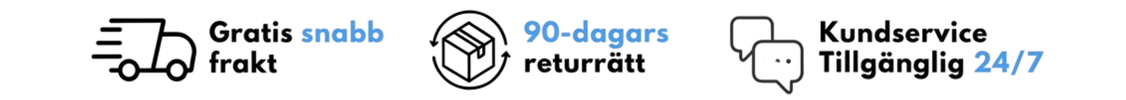
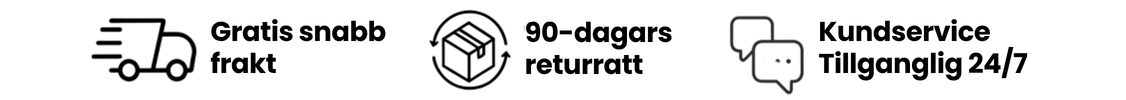
Polish landing page copy and mobile CTA

diff --git a/index.html b/index.html
@@ -85,7 +85,7 @@
     .top-blue-line {
       width: 100%;
       min-height: 34px;
-      background: var(--color-primary);
+      background: #090908;
       color: #FFFFFF;
       display: flex;
       align-items: center;
@@ -501,7 +501,7 @@
       padding: 0;
       display: grid;
       gap: 12px;
-      margin-bottom: 30px;
+      margin-bottom: 18px;
     }
 
     .benefit-list li {
@@ -550,6 +550,47 @@
       line-height: 16px;
       font-weight: 800;
       text-transform: none;
+    }
+
+    .hero-guarantee-card {
+      width: 100%;
+      margin: 0 0 18px;
+      padding: 16px 18px;
+      border: 1.5px solid #090908;
+      border-radius: 18px;
+      background: #FFFFFF;
+      display: grid;
+      grid-template-columns: 56px minmax(0, 1fr);
+      gap: 14px;
+      align-items: center;
+      color: #090908;
+    }
+
+    .hero-guarantee-badge {
+      width: 56px;
+      height: 56px;
+      object-fit: contain;
+      display: block;
+    }
+
+    .hero-guarantee-copy {
+      display: grid;
+      gap: 4px;
+      min-width: 0;
+    }
+
+    .hero-guarantee-title {
+      font-size: 15px;
+      line-height: 20px;
+      font-weight: 800;
+      letter-spacing: 0;
+    }
+
+    .hero-guarantee-text {
+      font-size: 15px;
+      line-height: 23px;
+      font-weight: 400;
+      color: #090908;
     }
 
     .hero-testimonial {
@@ -1495,6 +1536,24 @@
       text-align: center;
     }
 
+    .reviews-heading {
+      display: grid;
+      gap: 4px;
+      margin-left: auto;
+      margin-right: auto;
+    }
+
+    .reviews-heading span {
+      display: block;
+    }
+
+    .reviews-heading-count {
+      display: block;
+      font-size: 17px;
+      line-height: 24px;
+      font-weight: 800;
+    }
+
     .trustpilot-block {
       display: grid;
       justify-items: center;
@@ -2176,6 +2235,9 @@
         padding-left: 10px;
         padding-right: 10px;
       }
+      .legal-footer {
+        padding-bottom: calc(128px + env(safe-area-inset-bottom));
+      }
       .top-blue-line {
         min-height: 44px;
         flex-wrap: wrap;
@@ -2226,7 +2288,8 @@
       .proof-copy p,
       .guarantee-text,
       .offer-subcopy {
-        max-width: 330px;
+        width: 100%;
+        max-width: 100%;
         margin-left: auto;
         margin-right: auto;
       }
@@ -2260,6 +2323,25 @@
       .hero-content .benefit-list {
         width: 100%;
         max-width: 100%;
+      }
+      .hero-guarantee-card {
+        grid-template-columns: 50px minmax(0, 1fr);
+        gap: 12px;
+        padding: 14px;
+        border-radius: 16px;
+        margin-bottom: 16px;
+      }
+      .hero-guarantee-badge {
+        width: 50px;
+        height: 50px;
+      }
+      .hero-guarantee-title {
+        font-size: 14px;
+        line-height: 19px;
+      }
+      .hero-guarantee-text {
+        font-size: 14px;
+        line-height: 21px;
       }
       .rating {
         flex-wrap: wrap;
@@ -2310,7 +2392,8 @@
         gap: 10px;
       }
       .proof-row p {
-        max-width: 330px;
+        width: 100%;
+        max-width: 100%;
         margin: 0 auto;
       }
       .hero .btn-primary {
@@ -2365,14 +2448,31 @@
       .offer-img {
         max-width: 300px;
       }
+      .sticky-cta {
+        background: #090908;
+        box-shadow: rgba(0, 0, 0, 0.28) 0 -4px 16px;
+      }
+      .sticky-cta .sticky-inner {
+        width: 100%;
+        max-width: 430px;
+        padding: 8px 14px 10px;
+      }
       .sticky-cta .btn-primary {
+        background: transparent;
         min-height: 72px;
-        padding: 8px 0 0;
+        padding: 0;
+        border-radius: 0;
         font-size: 20px;
         line-height: 24px;
         overflow: hidden;
         align-items: stretch;
         justify-content: space-between;
+        gap: 6px;
+        box-shadow: none;
+      }
+      .sticky-cta .btn-primary:hover {
+        background: transparent;
+        box-shadow: none;
       }
       .sticky-cta-main {
         display: flex;
@@ -2380,25 +2480,36 @@
         justify-content: center;
         width: 100%;
         flex: 1 1 auto;
+        min-height: 58px;
+        background: var(--color-primary);
+        border-radius: 8px;
+        color: #FFFFFF;
+        box-shadow: rgba(77, 162, 241, 0.28) 0 4px 10px;
+        font-weight: 800;
         text-align: center;
         transform: none;
-        padding-top: 2px;
-        padding-bottom: 2px;
-        margin-bottom: 2px;
+        padding: 8px 12px;
       }
       .sticky-cta-sub {
         width: 100%;
         display: flex;
-        gap: 2px;
+        gap: 4px;
         align-items: center;
         justify-content: center;
-        background: #000000;
+        background: transparent;
+        color: #FFFFFF;
         border-radius: 0;
-        padding: 3px 8px 4px;
+        padding: 0 8px;
         margin-top: auto;
-        font-size: 14px;
-        line-height: 18px;
+        font-size: 12px;
+        line-height: 16px;
+        font-weight: 800;
         text-align: center;
+      }
+      .sticky-cta .sticky-stock-label,
+      .sticky-cta .sticky-ship-copy,
+      .sticky-cta .sticky-timer {
+        color: #FFFFFF;
       }
       .sticky-cta-main { white-space: nowrap; }
     }
@@ -2406,6 +2517,10 @@
     @media (min-width: 744px) {
       .only-mobile { display: none; }
       .only-tablet-up { display: block; }
+      .sticky-cta .btn-primary,
+      .sticky-cta .btn-primary:hover {
+        background: #090908;
+      }
       .lp-section {
         padding: 40px 16px;
       }
@@ -2789,13 +2904,14 @@
       .intro-section .copy-stack {
         width: 100% !important;
         max-width: 100% !important;
+        margin: 0 auto 24px !important;
         justify-items: center !important;
         text-align: center !important;
       }
 
       .intro-section .copy-stack p {
         width: 100% !important;
-        max-width: 330px !important;
+        max-width: 100% !important;
         margin-left: auto !important;
         margin-right: auto !important;
         text-align: center !important;
@@ -2844,6 +2960,15 @@
         margin-bottom: 10px !important;
       }
 
+      .reviews-heading {
+        gap: 3px !important;
+      }
+
+      .reviews-heading-count {
+        font-size: 15px !important;
+        line-height: 20px !important;
+      }
+
       .trustpilot-logo {
         width: 152px !important;
         max-width: 46vw !important;
@@ -2863,16 +2988,15 @@
 
       .routine-copy {
         width: 100% !important;
-        max-width: 360px !important;
-        margin-left: auto !important;
-        margin-right: auto !important;
+        max-width: 100% !important;
+        margin: 0 auto 24px !important;
         gap: 16px !important;
         text-align: center !important;
       }
 
       .routine-copy p {
         width: 100% !important;
-        max-width: 360px !important;
+        max-width: 100% !important;
         margin-left: auto !important;
         margin-right: auto !important;
         font-size: 16px !important;
@@ -2936,11 +3060,12 @@
 
       .ingredients-section .copy-stack {
         gap: 16px;
-        margin-top: 0;
+        margin: 0 auto 24px !important;
       }
 
       .ingredients-section .copy-block p {
-        max-width: 360px !important;
+        width: 100% !important;
+        max-width: 100% !important;
         font-size: 16px;
         line-height: 24px;
       }
@@ -3024,6 +3149,13 @@
             <li><span class="check">✓</span><span>Ideaal voor gezicht, hals en dagelijkse verzorging</span></li>
             <li><span class="check">✓</span><span>Met copper peptides en hyaluronic acid</span></li>
           </ul>
+          <div class="hero-guarantee-card">
+            <img class="hero-guarantee-badge" src="bedz.png" alt="90 dagen geld-terug-garantie">
+            <div class="hero-guarantee-copy">
+              <div class="hero-guarantee-title">Voel het verschil – of krijg je geld terug!</div>
+              <div class="hero-guarantee-text">Probeer het 90 dagen volledig risicovrij. Als je geen echt verschil ziet, krijg je 100% van je geld terug.</div>
+            </div>
+          </div>
           <a class="btn-primary" href="https://aleks9990.github.io/PeptiGlow-Checkout/">Bestel Nu→ <small>50% korting eindigt vanavond om 23:59 uur</small></a>
           <div class="hero-testimonial">
             <img class="comment-img" src="comment.png" alt="Lisa M. review">
@@ -3052,14 +3184,14 @@
     <section class="lp-section lp-section--blue intro-section">
       <div class="lp-inner split-block">
         <div class="copy-block">
-          <h2>Waarom je huid dof blijft, zelfs met dagelijkse creme</h2>
+          <h2>Waarom je huid dof blijft, zelfs met dagelijkse crème</h2>
           <div class="mobile-inline-image">
             <img class="section-img" src="photo2.png" alt="Hoe PeptiGlow werkt">
           </div>
           <div class="copy-stack">
-            <p>Een gewone creme kan prettig aanvoelen, maar geeft je huid niet altijd de serumstap die ze nodig heeft om frisser en gladder te ogen.</p>
-            <p>PeptiGlow™ gebruikt een lichte GHK-Cu serumtextuur met hyaluronic acid en glycerin. De formule helpt vocht aan de huid te binden, ondersteunt een verzorgde uitstraling en laat je huid voller gehydrateerd aanvoelen.</p>
-            <p>Geen zware laag, geen plakkerig gevoel. Alleen een dagelijkse boost die makkelijk onder moisturizer, SPF of make-up past.</p>
+            <p>Je crème voelt fijn — maar het is <strong>geen serum</strong>. Ze mist de <strong>actieve stap</strong> die je huid frisser en gladder laat ogen.</p>
+            <p><strong>PeptiGlow™ is die stap</strong>. GHK-Cu, hyaluronic acid en glycerin in een lichte formule die <strong>vocht bindt</strong> en je huid <strong>voller gehydrateerd</strong> laat aanvoelen.</p>
+            <p>Geen zware laag, geen plakkerig gevoel. <strong>Eén stap</strong> die moeiteloos onder moisturizer, SPF of make-up past.</p>
           </div>
           <a class="btn-primary" href="https://aleks9990.github.io/PeptiGlow-Checkout/">Bestel Nu →</a>
           <div class="cta-note">Nog maar 6 op voorraad!</div>
@@ -3081,8 +3213,8 @@
             <img class="section-img" src="3step.png" alt="PeptiGlow routine">
           </div>
           <div class="routine-copy">
-            <p>Reinig je gezicht en breng PeptiGlow™ aan op een schone, droge huid. Verdeel 2-3 druppels gelijkmatig over je gezicht en hals en masseer het serum zachtjes in met je vingertoppen.</p>
-            <p>De lichte formule trekt binnen seconden in zonder plakkerig gevoel. Sluit af met je moisturizer en gebruik overdag altijd SPF. 's Ochtends of 's avonds — het past in elke routine.</p>
+            <p>Verdeel <strong>2-3 druppels</strong> PeptiGlow™ over een schoon, droog gezicht en hals. Masseer het serum zachtjes in met je vingertoppen — <strong>klaar in enkele seconden</strong>.</p>
+            <p>De lichte formule voelt <strong>direct comfortabel</strong>, zonder plakkerig of zwaar gevoel. Werk af met je moisturizer en gebruik overdag altijd SPF. <strong>'s Ochtends of 's avonds</strong> — het past <strong>moeiteloos</strong> in je routine.</p>
           </div>
           <a class="btn-primary" href="https://aleks9990.github.io/PeptiGlow-Checkout/">Bestel Nu →</a>
           <div class="cta-note">Nog maar 6 op voorraad!</div>
@@ -3098,10 +3230,9 @@
             <img class="section-img" src="ingre.png" alt="PeptiGlow ingredienten">
           </div>
           <div class="copy-stack">
-            <p>Een korte, transparante formule gebouwd rond Copper Tripeptide-1, met hydraterende ingrediënten die passen in een simpele dagelijkse skincare routine.</p>
-            <p>De formule dringt dieper door dan een gewone crème. Waar dagcrèmes op de oppervlakte blijven liggen, werkt PeptiGlow™ op celniveau — daar waar je huid zichzelf herstelt en nieuw collageen aanmaakt.</p>
-            <p>De textuur voelt licht aan, trekt binnen seconden in en laat geen plakkerig gevoel achter. Perfect onder moisturizer, SPF of make-up.</p>
-            <p>Bedoeld voor vrouwen die merken dat hun huid droger, doffer of minder glad aanvoelt — en klaar zijn voor een serumstap die écht verschil maakt.</p>
+            <p><strong>Copper Tripeptide-1</strong>, hyaluronic acid en glycerin — in een lichte formule die <strong>binnen seconden</strong> intrekt.</p>
+            <p>Waar een dagcrème op de oppervlakte blijft, werkt PeptiGlow™ <strong>dieper — op celniveau</strong>, daar waar je huid zichzelf herstelt en <strong>nieuw collageen</strong> aanmaakt.</p>
+            <p>Voor vrouwen die merken dat hun huid droger, doffer of minder glad aanvoelt — en klaar zijn voor de stap die <strong>écht verschil</strong> maakt.</p>
           </div>
           <a class="btn-primary" href="https://aleks9990.github.io/PeptiGlow-Checkout/">Bestel Nu →</a>
           <div class="cta-note">Nog maar 6 op voorraad!</div>
@@ -3121,7 +3252,7 @@
             <span>Gebaseerd op 10.452 beoordelingen</span>
           </div>
         </div>
-        <h2 class="reviews-heading">Geloof ons niet zomaar—kijk wat anderen zeggen!<br>10.452+ geverifieerde beoordelingen</h2>
+        <h2 class="reviews-heading"><span>Geloof ons niet zomaar</span><span>Kijk wat anderen zeggen!</span><span class="reviews-heading-count">10.452+ geverifieerde beoordelingen</span></h2>
         <div class="review-cards">
           <article class="customer-card">
             <div class="customer-photo"><img class="review-img" src="review1.png" alt="Lisa M. review photo"></div>